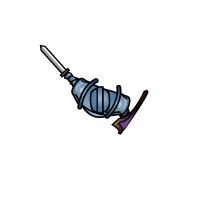
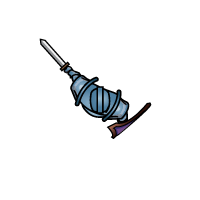
new sprites, mostly completed movements

Changed region(s): [[0.18, 0.18, 0.51, 0.57], [0.48, 0.42, 0.78, 0.69]]

diff --git a/demos/shayan_demo_17/Example.js b/demos/shayan_demo_17/Example.js
@@ -9,54 +9,44 @@ class Example extends Phaser.Scene {
 		,'assets/metalslug_mummy37x45.png', 
 		{ frameWidth: 37, frameHeight: 45});
 
-		this.load.atlas('warrior_torso', 'assets/run/torso/warrior_run_torso_spritesheet.png',
-						'assets/run/torso/warrior_run_torso_spritesheet.json');
+		this.load.atlas('warrior_torso', 'assets/run/torso/spritesheet.png',
+						'assets/run/torso/spritesheet.json');
 
-		this.load.atlas('warrior_legs', 'assets/run/legs/warrior_run_legs_spritesheet.png',
-						'assets/run/legs/warrior_run_legs_spritesheet.json');
+		this.load.atlas('warrior_legs', 'assets/run/legs/spritesheet.png',
+						'assets/run/legs/spritesheet.json');
 
 		
 	}
 
 	create() {
-		this.matter.add.mouseSpring();
+		// this.matter.add.mouseSpring();
 		this.matter.world.setBounds(0, 0, game.config.width, game.config.height);
 
-		let stack = Phaser.Physics.Matter.Composites;
-
-		this.character = this.add.group();
-
-
-		this.player = this.matter.add.sprite(400,400, 'mummy');
-		//this.player.setCollisionCategory(0);
-		this.player.setCollidesWith([0,1]);
-		this.player.speed = 1.5;
+		// this.player = this.matter.add.sprite(300,300, 'mummy');
+		// this.player.setCollisionCategory(0);
+		// this.player.setCollidesWith([0,1]);
+		// this.player.speed = 1.5;
 
 
 		// WARRIOR
-		this.warrior = this.add.group();
 		this.warrior_legs = this.add.sprite(150,150,'warrior_legs','tile000.png');
 		//this.warrior_legs.setCollisionCategory(0);
 
 		this.warrior_torso = this.matter.add.sprite(150,150,'warrior_torso','tile000.png');
 		//this.warrior_torso.setCollisionGroup(23);
-		//this.warrior_torso.setCollisionCategory(1);
-		this.warrior.add(this.warrior_legs);
-		this.warrior.add(this.warrior_torso);
-
-		console.log(this.warrior);
-		
-		this.character.add(this.warrior_legs);
-		this.character.add(this.warrior_torso);
+		this.warrior_torso.setCollisionCategory(0);
 
 		let warriorTorsoFrames = this.anims.generateFrameNames('warrior_torso', { start: 0, end: 15, zeroPad: 3, prefix: 'tile', suffix: '.png' });
-		this.anims.create({ key: 'run_legs', frames: warriorTorsoFrames, frameRate: 30, repeat: -1 });
-		this.warrior_torso.anims.play('run_legs');
+		this.anims.create({ key: 'run_torso', frames: warriorTorsoFrames, frameRate: 30, repeat: -1 });
+		// this.warrior_torso.anims.play('run_legs');
 
 		let warriorLegFrames = this.anims.generateFrameNames('warrior_legs', { start: 0, end: 15, zeroPad: 3, prefix: 'tile', suffix: '.png' });
-		this.anims.create({ key: 'run_torso', frames: warriorLegFrames, frameRate: 30, repeat: -1 });
-		this.warrior_legs.anims.play('run_torso');
+		this.anims.create({ key: 'run_legs', frames: warriorLegFrames, frameRate: 30, repeat: -1 });
+		// this.warrior_legs.anims.play('run_torso');
 
+		this.warrior = {main: this.warrior_torso,
+						parts: [this.warrior_legs],
+						speed: 3};
 
 		//this.matter.add.constraint(this.warrior_torso, this.warrior_legs, 100, 0.2);
 
@@ -77,52 +67,92 @@ class Example extends Phaser.Scene {
 		// });
 
 		this.arrowKeys = this.input.keyboard.createCursorKeys();
+		// console.log(this.input.mouse)
+
+
+		this.input.on('pointermove', (pointer) => {
+
+			let angle = Math.atan2(pointer.y-this.warrior.main.y, pointer.x-this.warrior.main.x) - (90*(Math.PI/180));
+
+			//this.warrior.main.setAngle(Phaser.Math.RAD_TO_DEG*angle);
+		});
+
 		this.moving = false;
 	}
 
 	update(delta) {
+
 		Phaser.Display.Align.In.Center(this.warrior_legs, this.warrior_torso);
 		this.warrior_legs.setAngle(this.warrior_torso.angle);
+
 		this.moving = false;
+		let opposite = Math.sin(this.warrior.main.rotation) * this.warrior.speed;	
+		let adjacent = Math.cos(this.warrior.main.rotation) * this.warrior.speed;
 
 		if (this.arrowKeys.left.isDown){
 			this.moving = true;
-			this.player.flipX = true;
-			this.player.setAngle(0);
-			this.player.x -= this.player.speed;
+			// this.player.flipX = true;
+			// this.player.setAngle(0);
+			// this.player.x -= this.player.speed;
+
+			// this.warrior.main.x += adjacent;
+			// this.warrior.main.y += opposite;
+			this.warrior.main.angle -= 3;
 		}
 		else if (this.arrowKeys.right.isDown){
 			this.moving = true;
-			this.player.flipX = false;
-			this.player.setAngle(0);
-			this.player.x += this.player.speed;
+			// this.player.flipX = false;
+			// this.player.setAngle(0);
+			// this.player.x += this.player.speed;
+
+			// this.warrior.main.x -= adjacent;
+			// this.warrior.main.y -= opposite;
+			this.warrior.main.angle += 3;
 		}
 
 		if (this.arrowKeys.up.isDown){
 			this.moving = true;
-			if (this.player.flipX) {
-				this.player.setAngle(90);
-			} else {
-				this.player.setAngle(270);
-			}
-			this.player.y -= this.player.speed;
+			// if (this.player.flipX) {
+			// 	this.player.setAngle(90);
+			// } else {
+			// 	this.player.setAngle(270);
+			// }
+			// this.player.y -= this.player.speed;
+
+			// this.warrior.main.y -= this.warrior.speed;
+
+			
+
+			this.warrior.main.x -= opposite;
+			this.warrior.main.y += adjacent;
 		}
 		if (this.arrowKeys.down.isDown){
 			this.moving = true;
-			if (this.player.flipX) {
-				this.player.setAngle(270);
-			} else {
-				this.player.setAngle(90);
-			}
+			// if (this.player.flipX) {
+			// 	this.player.setAngle(270);
+			// } else {
+			// 	this.player.setAngle(90);
+			// }
 			
-			this.player.y += this.player.speed;
+			// this.player.y += this.player.speed;
+			// this.warrior.main.y += this.warrior.speed;
+
+			this.warrior.main.x += opposite*0.5;
+			this.warrior.main.y -= adjacent*0.5;
+
+			// this.warrior_legs.anims.setTimeScale(0.5);
+			// this.warrior_torso.anims.setTimeScale(0.5);
 		}
 
 		if (this.moving) {
-			this.player.anims.play('walk', true);
+			this.warrior_legs.play('run_legs', true);
+			this.warrior_torso.play('run_torso', true);
+			
 		} else {
-			this.player.anims.stop('walk');
-			this.player.setFrame(0);
+			this.warrior.parts[0].anims.stop('run_legs');
+			this.warrior.main.anims.stop('run_torso');
+			this.warrior.parts[0].setFrame(0);
+			this.warrior.main.setFrame(0);
 		}
 	}
 }
